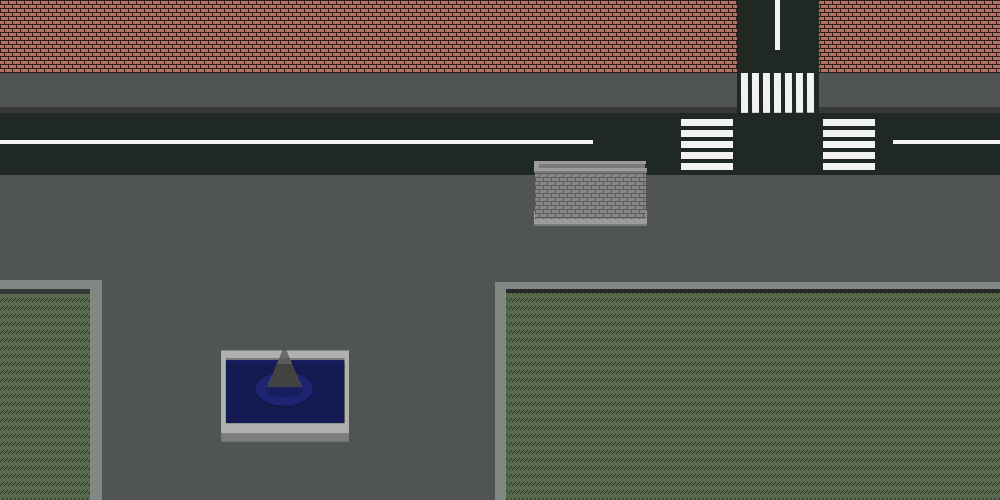
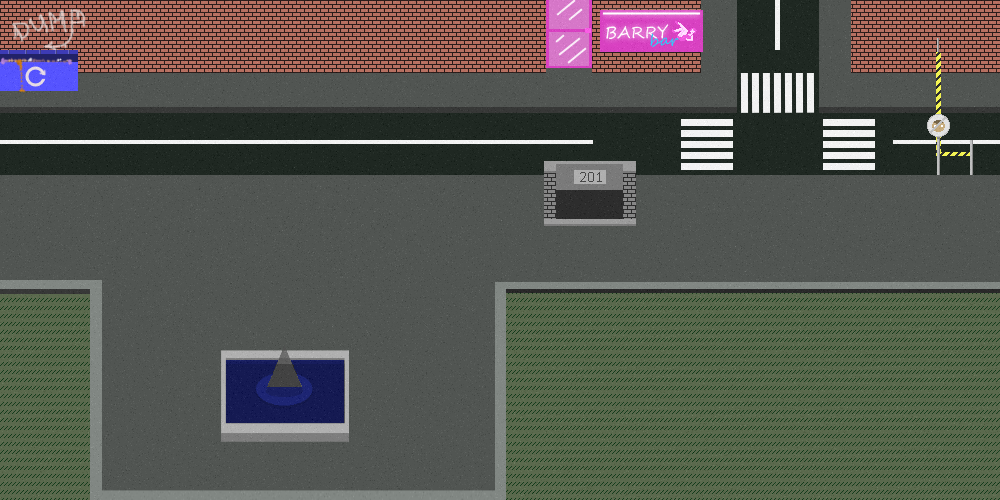
quests zones

diff --git a/script.js b/script.js
@@ -787,22 +787,183 @@ const g =
 	}
 }
 
-g.get.i = [ '_', 'black', 'blackstep0', 'blackstep1', 'button0', 'button1', 'button2', 'city', 'exit', 'exit1', 'grass', 'hero', 'hero_red', 'hero_green', 'linda', 'linda2', 'pillar', 'road', 'roadh', 'roadv', 'shadow', 'stantion201', 'start', 'tree', 'wall' ];
+g.get.i = [ '_', 'bar', 'black', 'blackstep0', 'blackstep1', 'button0', 'button1', 'button2', 'city', 'dump', 'exit', 'exit1', 'foobar', 'grass', 'hero', 'hero_red', 'hero_green', 'linda', 'linda2', 'metrodoor', 'pillar', 'road', 'roadh', 'roadv', 'shadow', 'stantion201', 'start', 'tree', 'wall' ];
 
 window.onload = g.l;
 
-g.s.city = function ()
+g.s.bar = function (p)
+{
+	g.wipe ();
+	window.document.body.style.background = 'url("data/bar.png")';
+
+	g.c = g._.room
+	({
+		box:
+		[
+			//foobar
+			{h:0.15,w:0.23,x:0.76,y:0.2,i:g.i.foobar,texture:false,z:2,zen:true},
+			{h:0.12,w:0.22,x:0.77,y:0.19,i:g.i._,texture:false,zen:false},
+
+			//door
+			{h:0.19,inact: function () {g.s.city ({x: 0.6, y: 0.2 });},w:0.06,x:0.46,y:0.01,i:g.i._,texture:false,zen:false},
+
+			//room
+			{h:0.79,w:0.98,x:0.01,y:0.2,i:g.i._,texture:false,zen:false}
+		],
+		debug: false
+	});
+
+	g.c = g._.block
+	({
+		box:
+		[
+			//barblock
+			{h:0.03,w:0.23,x:0.76,y:0.32,i:g.i._,texture:false,zen:false},
+			{h:0.22,w:0.04,x:0.74,y:0.13,i:g.i._,texture:false,zen:false},
+
+			//scene
+			{h:0.26,w:0.02,x:0.32,y:0.47,i:g.i._,texture:false,zen:false},
+			{h:0.07,w:0.09,x:0.24,y:0.46,i:g.i._,texture:false,zen:false},
+			{h:0.13,w:0.06,x:0.2,y:0.33,i:g.i._,texture:false,zen:false},
+			{h:0.05,w:0.2,x:0.00,y:0.32,i:g.i._,texture:false,zen:false},
+			{h:0.09,w:0.23,x:0.01,y:0.79,i:g.i._,texture:false,zen:false},
+			{h:0.23,w:0.02,x:0.23,y:0.65,i:g.i._,texture:false,zen:false},
+			{h:0.08,w:0.11,x:0.23,y:0.65,i:g.i._,texture:false,zen:false}
+		],
+		debug: false
+	});
+
+	g.c = g._.u ({ control: 'auto', h: 0.22, i: g.i.black, speed: 0.005, step: g.a.black.step, tsearch: 500, wk: 0.42, x: 0.8, xk: 0.5, y: 0.25, yk: 1, z: 1 });
+
+	g.c = g._.u ({ control: 'auto', h: 0.22, i: g.i.linda, speed: 0.005, step: g.a.black.step, tsearch: 500, wk: 0.67, x: 0.2, xk: 0.5, y: 0.5, yk: 1, z: 1 });
+
+	g.c = g._.u ({ control: 'keyboard', h: 0.2, i: g.i.hero, wk: 0.42, x: p.x, xk: 0.5, y: p.y, yk: 1, z: 1 });
+}
+
+g.s.down = function (p)
+{
+	g.wipe ();
+	window.document.body.style.background = 'url("data/down.png")';
+
+	g.c = g._.room
+	({
+		box:
+		[
+			//city
+			{h:0.03,inact:function(){g.s.city({x:0.75,y:0.1});},w:0.37,x:0.34,y:0.96,i:g.i._,texture:false,zen:false},
+
+			//dump
+			{h:0.03,inact:function(){g.s.dump({x:0.2,y:0.9});},w:0.37,x:0.34,y:0.01,i:g.i._,texture:false,zen:false},
+
+			//room
+			{h:0.98,w:0.37,x:0.34,y:0.01,i:g.i._,texture:false,zen:false},
+			{h:0.2,w:0.33,x:0.01,y:0.7,i:g.i._,texture:false,zen:false},
+			{h:0.22,w:0.08,x:0.26,y:0.48,i:g.i._,texture:false,zen:false}
+		],
+		debug: false
+	});
+
+	g.c = g._.block
+	({
+		box:
+		[
+		],
+		debug: true
+	});
+
+	g.c = g._.u ({ control: 'keyboard', h: 0.1, i: g.i.hero, wk: 0.42, x: p.x, xk: 0.5, y: p.y, yk: 1, z: 1 });
+}
+
+g.s.dump = function (p)
+{
+	g.wipe ();
+	window.document.body.style.background = 'url("data/dump.png")';
+
+	g.c = g._.room
+	({
+		box:
+		[
+			//city
+			{h:0.29,inact:function(){g.s.city({x:0.05,y:0.2});},w:0.01,x:0.98,y:0.69,i:g.i._,texture:false,zen:false},
+
+			//room
+			{h:0.79,w:0.98,x:0.01,y:0.19,i:g.i._,texture:false,zen:false}
+		],
+		debug: false
+	});
+
+	g.c = g._.block
+	({
+		box:
+		[
+		],
+		debug: true
+	});
+
+	g.c = g._.u ({ control: 'keyboard', h: 0.1, i: g.i.hero, wk: 0.42, x: p.x, xk: 0.5, y: p.y, yk: 1, z: 1 });
+}
+
+g.s.city = function (p)
 {
 	g.wipe ();
 	window.document.body.style.background = 'url("data/city.png")';
+
+	g.c = g._.room
+	({
+		box:
+		[
+			//bar
+			{h:0.14,inact: function () {g.s.bar ({x:0.55,y:0.2});}, w:0.04,x:0.55,y:0.01,i:g.i._,texture:false,zen:false},
+
+			//down
+			{h:0.03,inact:function(){g.s.down({x:0.5,y:0.95});},w:0.15,x:0.7,y:0.02,i:g.i._,texture:false,zen:false},
+
+			//dump
+			{h:0.37,inact:function(){g.s.dump({x:0.9,y:0.8});},w:0.02,x:0.01,y:0.19,i:g.i._,texture:false,zen:false},
+
+			//metro
+			{h:0.14,w:0.1,x:0.54,y:0.3,i:g.i.metrodoor,texture:false,z:2,zen:true},
+			{h:0.02,inact:function(){g.s.metro ({x:0.76,y:0.57});},w:0.07,x:0.55,y:0.42,i:g.i._,texture:false,zen:false},
+
+			//streets
+			{h:0.41,w:0.98,x:0.01,y:0.15,i:g.i._,texture:false,zen:false},
+			{h:0.43,w:0.39,x:0.1,y:0.56,i:g.i._,texture:false,zen:false},
+			{h:0.14,w:0.15,x:0.7,y:0.01,i:g.i._,texture:false,zen:false}
+		],
+		debug: false
+	});
+
+	g.c = g._.block
+	({
+		box:
+		[
+			//dump
+			{h:0.04,w:0.07,x:0.01,y:0.15,i:g.i._,texture:false,zen:false},
+
+			//close
+			{h:0.21,w:0.01,x:0.93,y:0.15,i:g.i._,texture:false,zen:false},
+			{h:0.02,w:0.05,x:0.94,y:0.34,i:g.i._,texture:false,zen:false},
+
+			//metro
+			{h:0.06,w:0.02,x:0.535,y:0.38,i:g.i._,texture:false,zen:false},
+			{h:0.06,w:0.02,x:0.62,y:0.38,i:g.i._,texture:false,zen:false},
+			{h:0.03,w:0.1,x:0.54,y:0.36,i:g.i._,texture:false,zen:false},
+
+			//water
+			{h:0.19,w:0.13,x:0.22,y:0.7,i:g.i._,texture:false,zen:false}
+		],
+		debug: true
+	});
+
+	g.c = g._.u ({ control: 'keyboard', h: 0.1, i: g.i.hero, wk: 0.42, x: p.x, xk: 0.5, y: p.y, yk: 1, z: 1 });
 }
 
 g.s.l = function ()
 {
-	g.s.menu ();
+	g.s.city ({x:0.63,y:0.45});
 }
 
-g.s.menu = function ()
+g.s.menu = function (p)
 {
 	g.wipe ();
 	window.document.body.style.background = 'url("data/metro.png")';
@@ -836,7 +997,7 @@ g.s.menu = function ()
 
 	g.c = g._.b
 	({
-		act: function () { g.s.metro (); },
+		act: function () { g.s.metro ({x: 0.47, y: 0.65}); },
 		cursor: true,
 		h: 0.11,
 		i: g.i.stantion201, i1: g.i.start, i2: g.i.button2,
@@ -859,7 +1020,7 @@ g.s.menu = function ()
 	g.c = g._.u ({ control: 'auto', h: 0.15, i: g.i.black, speed: 0.005, step: g.a.black.step, tsearch: 500, wk: 0.42, x: 0.35, xk: 0.5, y: 0.6, yk: 1, z: 1 });
 }
 
-g.s.metro = function ()
+g.s.metro = function (p)
 {
 	g.wipe ();
 	window.document.body.style.background = 'url("data/metro.png")';
@@ -870,7 +1031,7 @@ g.s.metro = function ()
 			box:
 			[
 				//door city
-				{h:0.17,inact:function(){g.s.city();},w:0.17,x:0.79,y:0.2,i:g.i._,texture:false,zen:false},
+				{h:0.17,inact:function(){g.s.city({x:0.63,y:0.45});},w:0.17,x:0.79,y:0.2,i:g.i._,texture:false,zen:false},
 
 				//pillars
 				{h:0.62,w:0.04,x:0.27,y:0.05,i:g.i.pillar,texture:false,z:2,zen:true},
@@ -901,7 +1062,7 @@ g.s.metro = function ()
 
 	g.c = g._.b ({ act: function () { window.close (); }, cursor: true, h: 0.048, i: g.i.exit, i1: g.i.exit1, wk: 2.625, x: 0.84, y: 0.124, z: 2 });
 
-	g.c = g._.u ({ control: 'keyboard', h: 0.15, i: g.i.hero, wk: 0.42, x: 0.47, xk: 0.5, y: 0.65, yk: 1, z: 1 });
+	g.c = g._.u ({ control: 'keyboard', h: 0.15, i: g.i.hero, wk: 0.42, x: p.x, xk: 0.5, y: p.y, yk: 1, z: 1 });
 }
 
 g.s.test = function ()
